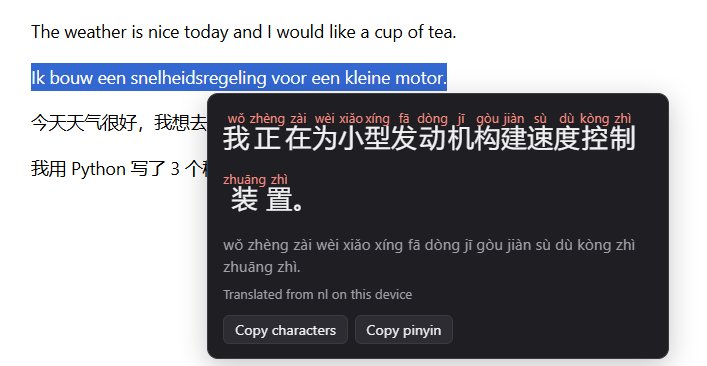
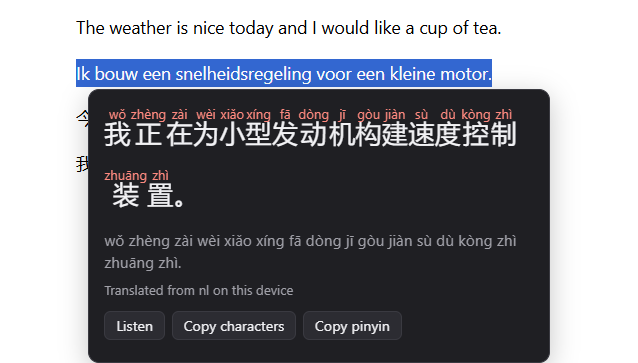
Update README and screenshot for the public release

diff --git a/README.md b/README.md
@@ -1,6 +1,6 @@
 # Mandarin Selection Translator
 
-A Chrome extension: select text on any page and get it in Mandarin, as characters with the pinyin above each one. The translation runs on your own computer with Chrome's built-in translator, so the text you select is not sent to a server and no API key is needed.
+A browser extension for Chrome and Edge: select text on any page and get it in Mandarin, as characters with the pinyin above each one, and have it read aloud. The translation runs on your own computer with the browser's built-in translator, so translating sends nothing to a server and needs no API key. Reading aloud is the one exception when the browser only has online voices, see [Permissions](#permissions).
 
 ![A Dutch sentence translated to Mandarin with pinyin above the characters](docs/screenshot.png)
 
@@ -23,6 +23,7 @@ Requires Chrome 138 or newer on desktop. It also runs in Microsoft Edge, where i
 1. Download or clone this repository.
 2. Open `chrome://extensions` (in Edge: `edge://extensions`) and switch on **Developer mode**.
 3. Click **Load unpacked** and choose the repository folder.
+4. Reload the tabs that were already open. The same applies after every reload or update of the extension: a tab that was open keeps the old script until it is reloaded, and the panel says so.
 
 ## How it works
 
